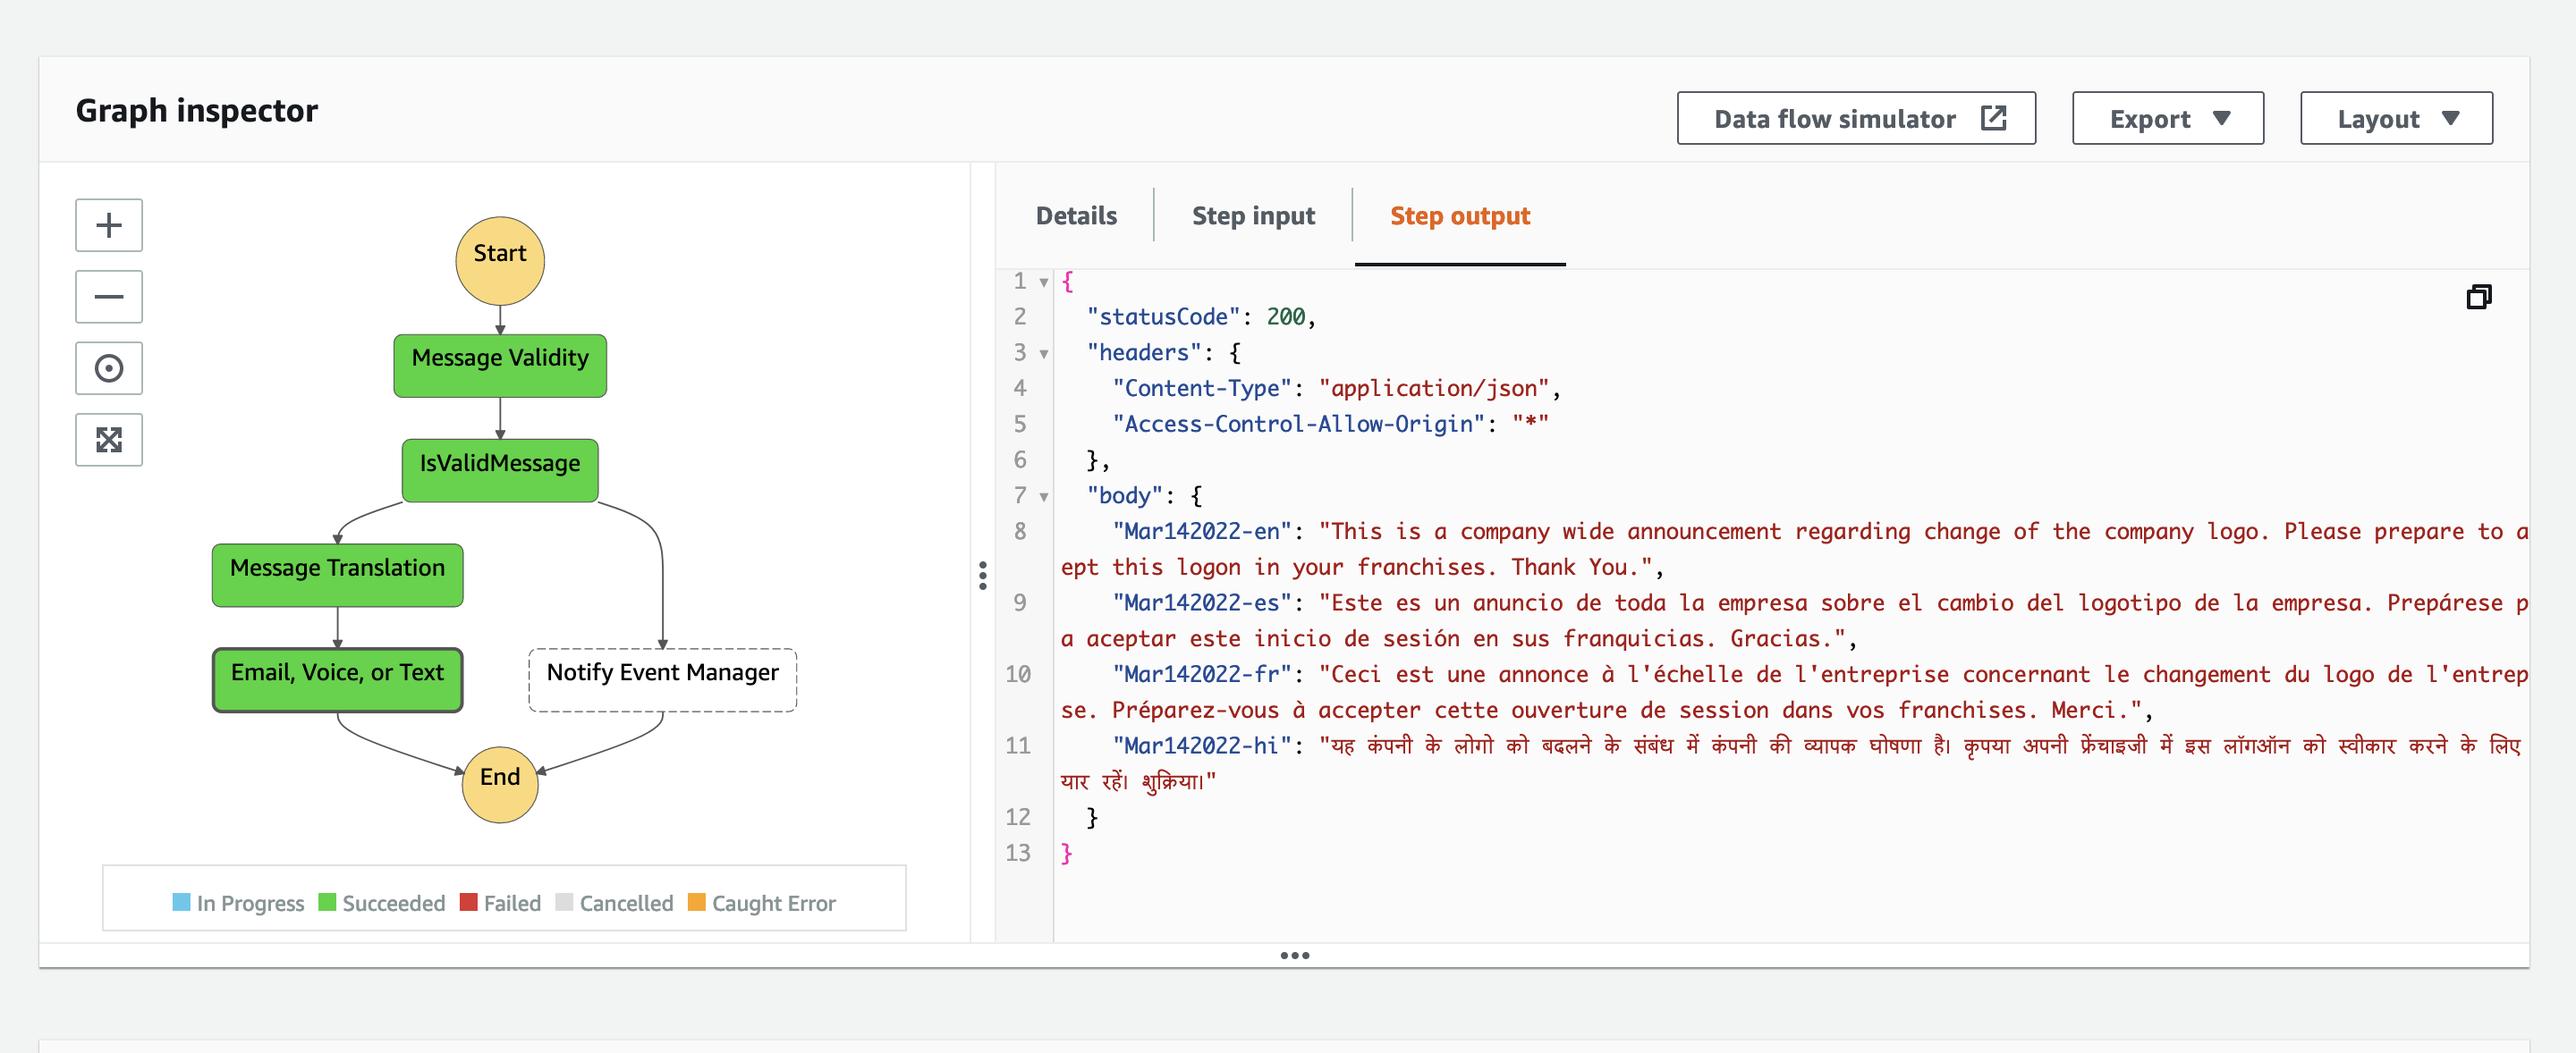
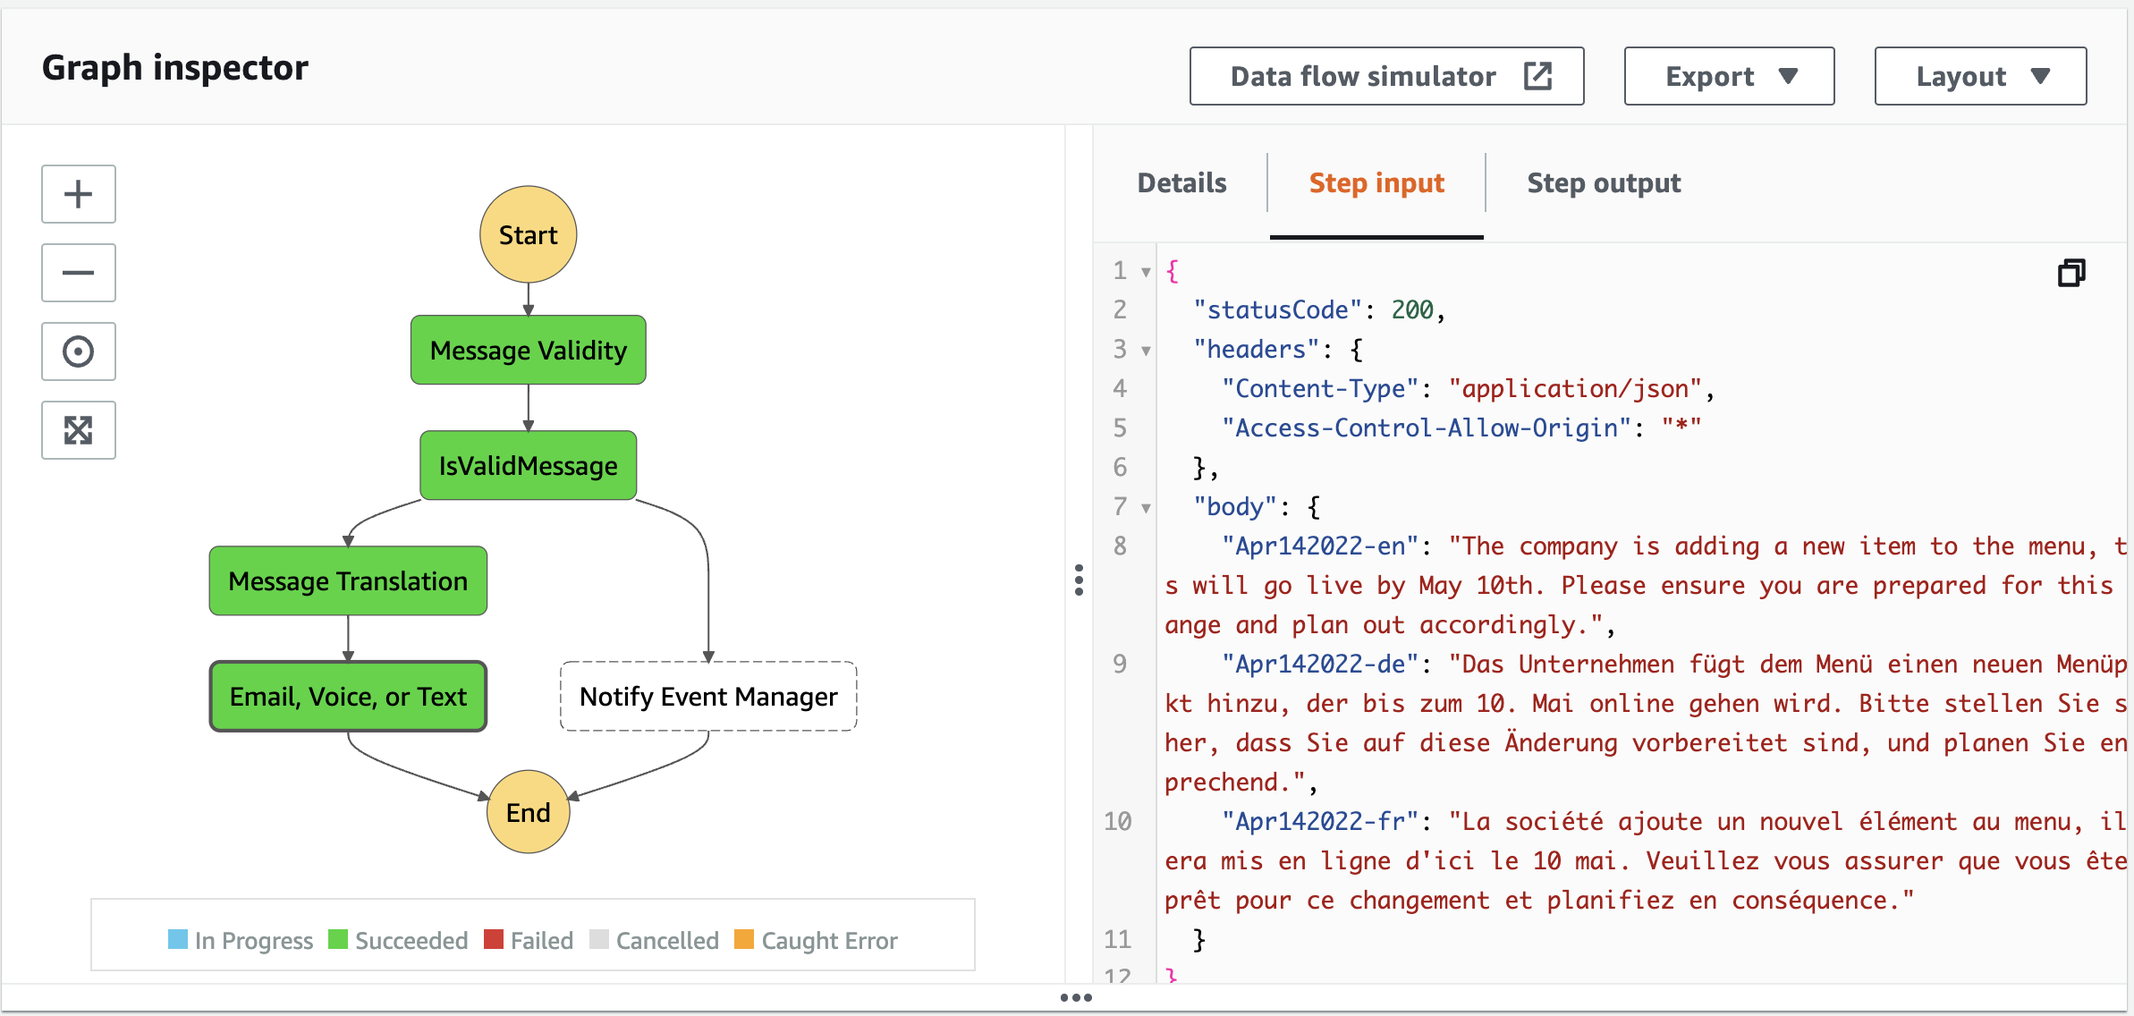
Incorporating tech review feedback

diff --git a/functions/pinpoint_function/app.py b/functions/pinpoint_function/app.py
@@ -16,7 +16,7 @@ dynamo_url = 'https://dynamodb.'+region+'.amazonaws.com'
 origination_number = os.environ.get('ORIG_NUMBER')
 caller_id = os.environ.get('ORIG_NUMBER')
 app_id = os.environ.get('APP_ID')
-sender_email_id = os.environ.get('SENDER_EMAIL_ID')
+sender_email = os.environ.get('SENDER_EMAIL')
 
 def lambda_handler(event, context):
     event_body = event['body']
@@ -44,7 +44,7 @@ def lambda_handler(event, context):
                     
                 
                 if language == lan_code :
-                    print('user record', recipient)
+                    #print('user record', recipient)
                                     
                     first_name = 'User'
                     if 'first_name' in recipient :
@@ -67,7 +67,7 @@ def lambda_handler(event, context):
                         sendVoiceMessage(key,value,phoneme,voiceId,recipient['phone'],first_name)
                         voice_users += 1
                     elif pref == 'email' :
-                        sendEmail(key,value, recipient['email_id'],first_name)
+                        sendEmail(key,value, recipient['email'],first_name)
                         email_users += 1
                     elif pref == 'sms' : 
                         print('text communication')
@@ -142,11 +142,11 @@ def getUsersByEventId(event_id, dynamodb=None):
     return response['Items']   
 
 #Using pinpoint for emails and voice
-def sendEmail(event_id, message, email_id, first_name):
+def sendEmail(event_id, message, email, first_name):
 
     # sending email
-    SENDER = sender_email_id
-    RECIPIENT = email_id
+    SENDER = sender_email
+    RECIPIENT = email
     SUBJECT = 'New announcement for the event: ' + event_id
  
     

diff --git a/README.md b/README.md
@@ -7,8 +7,8 @@ This project demonstrates how to develop a simple serverless application using A
 Use the following git command to download the source code to deploy and test:
 
 ```bash
-git clone git@github.com:aws-samples/multi-language-notification-amazon-translate-amazon-pinpoint.git
-cd multi-language-notification-amazon-translate-amazon-pinpoint
+git clone git@github.com:aws-samples/multi-language-notification-with-amazon-translate-amazon-pinpoint.git
+cd multi-language-notification-with-amazon-translate-amazon-pinpoint
 ```
 
 The downloaded code includes the following files and folders:
@@ -17,7 +17,7 @@ The downloaded code includes the following files and folders:
 - **statemachine** - This directory contains the definition for the state machine that orchestrates the multi-language notification workflow.
 - **template.yaml** - A template that defines the application's AWS resources.
 
-This application creates a multi-language notification workflow to translate text into various languages, converts it into voice and sms, and sends an notification to its users. It demonstrates the power of Step Functions to orchestrate Lambda functions, Amazon Translate and Amazon Pinpoint to form complex and robust workflows.
+This application creates a multi-language notification workflow to translate text into various languages, converts it into voice and sms, and sends a notification to its users. It demonstrates the power of Step Functions to orchestrate Lambda functions, Amazon Translate, and Amazon Pinpoint to form complex and robust workflows.
 
 Amazon Translate is a text translation service that uses advanced machine learning technologies to provide high-quality translation on demand. You can use Amazon Translate to translate unstructured text documents or to build applications that work in multiple languages.
 
@@ -29,12 +29,8 @@ These resources are defined in the `template.yaml` file in this project. You can
 - Amazon Translate has costs associated with the service after the Free Tier usage, please see the [Amazon Translate pricing page](https://aws.amazon.com/translate/pricing/) for details.
 - Amazon Pinpoint has costs associated with the service after the Free Tier usage, please see the [Amazon Pinpoint pricing page](https://aws.amazon.com/pinpoint/pricing/) for details.
 
-If you prefer to use an integrated development environment (IDE) to build and test the Lambda functions within your application, you can use the AWS Toolkit. The AWS Toolkit is an open source plug-in for popular IDEs that uses the SAM CLI to build and deploy serverless applications on AWS. The AWS Toolkit also adds a simplified step-through debugging experience for Lambda function code. Use the following link to get started:
-
-* [VS Code](https://docs.aws.amazon.com/toolkit-for-vscode/latest/userguide/welcome.html)
-
 ## Solution Architecture
-![Architecture Diagram](scripts/solution.png)
+![Architecture Diagram](scripts/solution4readme.png)
 
 ## Setup and deploy the application
 
@@ -47,9 +43,27 @@ The Serverless Application Model Command Line Interface (SAM CLI) is an extensio
 * [Python 3 installed](https://www.python.org/downloads/)
 * The Bash shell. For Linux and macOS, this is included by default. In Windows 10, you can install the [Windows Subsystem for Linux](https://docs.microsoft.com/en-us/windows/wsl/install-win10) to get a Windows-integrated version of Ubuntu and Bash.
 
-### Deploy the application
+Before deploy the solution, first complete the Pinpoint setup for email, sms, and voice communication.
 
-- Run the following command to deploy the template. The below command will package and deploy your application to AWS, with a series of prompts:
+### Step 1: Register Email and Phone number using Amazon Pinpoint console
+
+In the the last step of the workflow it invokes Amazon Pinpoint service from the Lambda function to send the communication. Here are the steps to configure the Pinpoint service.
+
+- In the AWS Management console, choose the Pinpoint service from the Services menu or search bar.
+- Select the region you have deployed the application in. 
+- Enter a name to create project.
+- Configure Email, SMS, and Voice features:
+
+    - **[Email setup](https://docs.aws.amazon.com/pinpoint/latest/userguide/channels-email-setup.html)** 
+        - Choose **Configure** in **Email** and enter a valid email address in the set up Email page. 
+        - Choose the verify button the verify the email address. After you verify the link in your email, choose the **Save** button.
+        - **Note** - You will have to register and verify both the recipient and the sender email addresses in Pinpoint.
+    - **[SMS and Voice setup](https://docs.aws.amazon.com/pinpoint/latest/userguide/channels-sms.html)** 
+        - In the left navigation pane of the console, choose **SMS and voice**, and request phone numbers for sending SMS and voice messages.
+        - **Note** - Make sure the **Enable the SMS channel for this project** is checked in the **Edit SMS and Voice settings** page.
+
+### Deploy the application
+Run the following command to deploy the template. The command below will package and deploy your application to AWS, with a series of prompts:
 
     ```bash
     sam deploy --guided
@@ -60,22 +74,6 @@ The Serverless Application Model Command Line Interface (SAM CLI) is an extensio
 * **Confirm changes before deploy**: If set to yes, any change sets will be shown to you before execution for manual review. If set to no, the AWS SAM CLI will automatically deploy application changes.
 * **Allow SAM CLI IAM role creation**: Many AWS SAM templates, including this example, create AWS IAM roles required for the AWS Lambda function(s) included to access AWS services. By default, these are scoped down to minimum required permissions. To deploy an AWS CloudFormation stack which creates or modifies IAM roles, the `CAPABILITY_IAM` value for `capabilities` must be provided. If permission isn't provided through this prompt, to deploy this example you must explicitly pass `--capabilities CAPABILITY_IAM` to the `sam deploy` command.
 * **Save arguments to samconfig.toml**: If set to yes, your choices will be saved to a configuration file inside the project, so that in the future you can just re-run `sam deploy` without parameters to deploy changes to your application.
-
-### Register Email and Phone number using Amazon Pinpoint console
-
-In the the last step of the workflow it invokes Pinpoint Lambda function to send the communication. Here are the steps to configure the Pinpoint service.
-
-- In the AWS Management console, choose the Pinpoint service from the Services menu or search bar.
-- Select the region you have deployed the application in. 
-- Enter a name to create project.
-- Configure Email, SMS, and Voice features:
-    - **Email setup** 
-        - Choose **Configure** in **Email** and enter a valid email address in the set up Email page. 
-        - Choose the verify button the verify the email address. After you verify the link in your email, choose the **Save** button.
-        - **Note** - You will have to register and verify both the recipient and the sender email addresses in Pinpoint.
-    - **SMS and Voice setup**
-        - In the left navigation pane of the console, choose **SMS and voice**, and request phone numbers for sending SMS and voice messages.
-        - **Note** - Make sure the **Enable the SMS channel for this project** is checked in the **Edit SMS and Voice settings** page.
 
 ### Update environment variables for the Pinpoint Lambda function
 
@@ -92,50 +90,51 @@ Here is a screenshot of the environment variables for the Pinpoint Lambda functi
 
 ![Pinpoint Diagram](scripts/pinpointvariables.png)
 
-### Set up DynamoDB records to test the application
+### Setup DynamoDB records to test the application
 
 You will need to setup some user records in the DynamoDB table. The application will use these records for the preferred way of communication and also the users corresponding email address and phone numbers. So, make sure you enter a valid email address and phone number to receive the messages.
 
 ```sql
-insert into mln_tbl value {  
+INSERT INTO user_profiles VALUE 
+{  
     'event_id': 'Apr142022',
     'user_id': 'ui101',
-    'first_name' : 'Robert'
-    'email_id': 'xxxx@example.com', --A valid email id to receive email
-    'language' : 'es',
-    'phone': '+11234567890', --A valid phone number number to receive the voice prompt
+    'first_name' : 'John',
+    'email': 'xxx@example.com', --A valid email id to receive email
+    'language' : 'en',
+    'phone': '+11235550101', --A valid phone number number to receive the voice prompt
     'preference': 'email',
-    'phoneme': 'es-MX'
+    'phoneme': 'en-US'
 }
 
-insert into mln_tbl value {  
+INSERT INTO user_profiles VALUE 
+{
     'event_id': 'Apr142022',
     'user_id': 'ui102',
-    'first_name' : 'John'
-    'email_id': 'foo@example.com', --A valid email id to receive email
-    'language' : 'es',
-    'phone': '+11234567890', --A valid phone number number to receive the voice prompt
-    'preference': 'email',
-    'phoneme': 'es-MX'
+    'first_name' : 'Mary',
+    'email': 'foo@example.com', --A valid email id to receive email
+    'language' : 'de',
+    'phone': '+11235550191', --A valid phone number number to receive the voice prompt
+    'preference': 'sms',
+    'phoneme': 'de-DE'
 }
 
-insert into mln_tbl value {  
+INSERT INTO user_profiles VALUE 
+{  
     'event_id': 'Apr142022',
     'user_id': 'ui103',
-    'first_name' : 'Doe'
-    'email_id': 'foo@example.com', --A valid email id to receive email
-    'language' : 'es',
-    'phone': '+11234567890', --A valid phone number number to receive the voice prompt
-    'preference': 'email',
-    'phoneme': 'es-MX'
+    'first_name' : 'Arnav',
+    'email': 'foo@example.com', --A valid email id to receive email
+    'language' : 'fr',
+    'phone': '+11235550190', --A valid phone number number to receive the voice prompt
+    'preference': 'voice',
+    'phoneme': 'fr-FR'
 }
 ```
 
 ### Copy the API Gateway Endpoint URL
 
-In the AWS Management console, choose the API Gateway service and then choose the **MLNApp** API. Copy the dev end point url from the **Stages** pane to use it for testing.
-
-![apigateway Diagram](scripts/apigateway.png)
+Copy API Gateway endpoint url from the sam deploy console or copy from AWS CloudFormation MLNStack output tab.
 
 ### Test the application
 
@@ -145,8 +144,8 @@ Here is a sample json object to post in the body:
 
 ```json
 {
-    "englishTxt" : "This is a company wide announcement regarding change of the company logo. Please prepare to accept this logon in your franchises. Thank You.",
-    "eventId": "Mar142022"
+    "englishTxt" : "The company is adding a new item to the menu, this will go live by May 10th. Please ensure you are prepared for this change and plan out accordingly.",
+    "eventId": "Apr142022"
 }
 ```
 
@@ -178,9 +177,9 @@ You should receive a message back from the SQS queue similar to below:
 
 ### Result
 
-You should have received a phone call, an email and a voice message in various languages for the above message posted through the curl command. You can check the Step Functions state machine event that processed this message in the AWS console and should see the workflow event in a succeeded state if all the above steps are setup correctly. 
+You will receive a phone call, an email, and a voice message in various languages for the above message posted through the curl command. You can check the Step Functions state machine event that processed this message in the AWS console, and will see the workflow event in a succeeded state if all the above steps are setup correctly. 
 
-Here is a screen shot of how the state machine workflow looks for a success message:
+Here is a screenshot of how the state machine workflow looks for a successfully processed message:
 
 ![StepFunctionsOutput Diagram](scripts/StepFunctionsoutput.png)
 
@@ -188,8 +187,15 @@ Here is a screen shot of how the state machine workflow looks for a success mess
 
 To delete the sample application that you created, use the AWS CLI. Assuming you used your project name for the stack name, you can run the following:
 
+- Pinpoint clean up:
+    - Open AWS Pinpoint console, and select the project. From the left navigation, click on Settings and General settings, click **Delete project**. Confirm again to delete the project.
+    - Go to **Email**, select email identity and click **Remove email identity**
+    - Go to **SMS and voice**, click on **Phone numbers**, select the numbers and remove
+
+- Delete rest of resources with following command
+
 ```bash
-sam delete
+aws cloudformation delete-stack --stack-name replace_with_mln_stack_name
 ```
 
 ### Blog Reference
